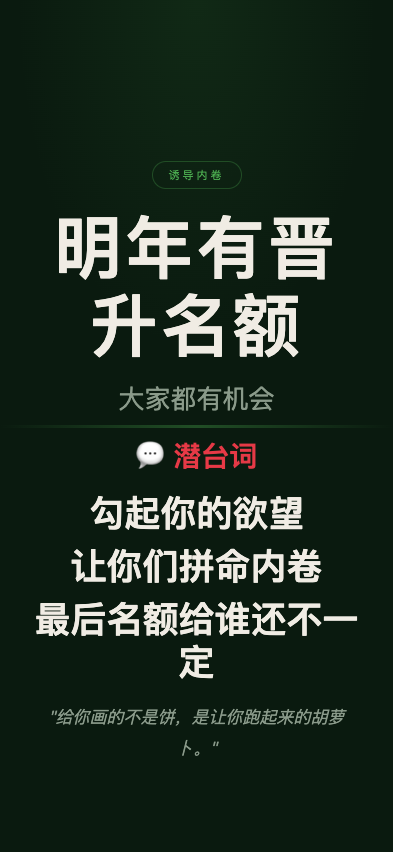
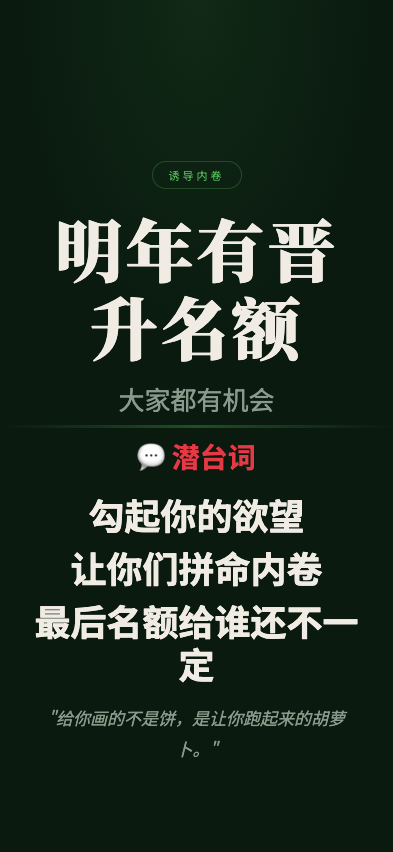
feat: 职场生存法则 screenshot - mingnianyoujinshengminge

diff --git a/wuliao-tools/tools/biz-speak/scenes/mingnianyoujinshengminge.html b/wuliao-tools/tools/biz-speak/scenes/mingnianyoujinshengminge.html
@@ -7,10 +7,10 @@
 <link href="https://fonts.googleapis.com/css2?family=Noto+Serif+SC:wght@400;700;900&family=Noto+Sans+SC:wght@300;400;700&display=swap" rel="stylesheet">
 <style>
   :root {
-    --bg: #0f0a12;
+    --bg: #0a1a0f;
     --text: #f0ece4;
-    --text-dim: #8a8a9a;
-    --gold: #c9a84c;
+    --text-dim: #8a9a8a;
+    --gold: #4caf50;
     --red: #e63946;
   }
   * { margin:0; padding:0; box-sizing:border-box; }
@@ -24,11 +24,11 @@
   }
   body::before {
     content:''; position:absolute; top:0; left:0; right:0; height:45%;
-    background:radial-gradient(ellipse at 50% 0%, rgba(201,168,76,0.1) 0%, transparent 65%);
+    background:radial-gradient(ellipse at 50% 0%, rgba(76,175,80,0.1) 0%, transparent 65%);
     pointer-events:none; z-index:0;
   }
   .top { flex:1; display:flex; flex-direction:column; align-items:center; justify-content:flex-end; padding:4px 28px 8px; position:relative; z-index:1; }
-  .tag { font-size:11px; letter-spacing:3px; color:var(--gold); border:1px solid rgba(201,168,76,0.3); padding:5px 16px; border-radius:50px; margin-bottom:20px; }
+  .tag { font-size:11px; letter-spacing:3px; color:var(--gold); border:1px solid rgba(76,175,80,0.3); padding:5px 16px; border-radius:50px; margin-bottom:20px; }
   .main-title { font-family:'Noto Serif SC'; font-size:68px; font-weight:900; text-align:center; line-height:1.15; letter-spacing:3px; min-width:0; overflow-wrap:break-word; max-width:92%; }
   .sub-title { font-size:26px; color:var(--text-dim); text-align:center; margin-top:14px; }
   .divider { width:100%; height:3px; background:linear-gradient(90deg,transparent,var(--gold),transparent); opacity:0.35; flex-shrink:0; position:relative; z-index:1; }
@@ -39,7 +39,7 @@
   .quote { font-size:17px; color:var(--text-dim); font-style:italic; text-align:center; line-height:1.8; margin-top:18px; padding:0 12px; }
 </style>
 </head>
-<body>
+<body class="theme-2">
   <div class="top">
     <div class="tag">诱导内卷</div>
     <div class="main-title">明年有晋升名额</div>
@@ -49,9 +49,7 @@
   <div class="bottom">
     <div class="truth-label">💬 潜台词</div>
     <div class="truth-lines">
-      <div class="truth-line">勾起你的欲望</div>
-      <div class="truth-line">让你们拼命内卷</div>
-      <div class="truth-line">最后名额给谁还不一定</div>
+      <div class="truth-line">勾起你的欲望</div><div class="truth-line">让你们拼命内卷</div><div class="truth-line">最后名额给谁还不一定</div>
     </div>
     <div class="quote">"给你画的不是饼，是让你跑起来的胡萝卜。"</div>
   </div>
